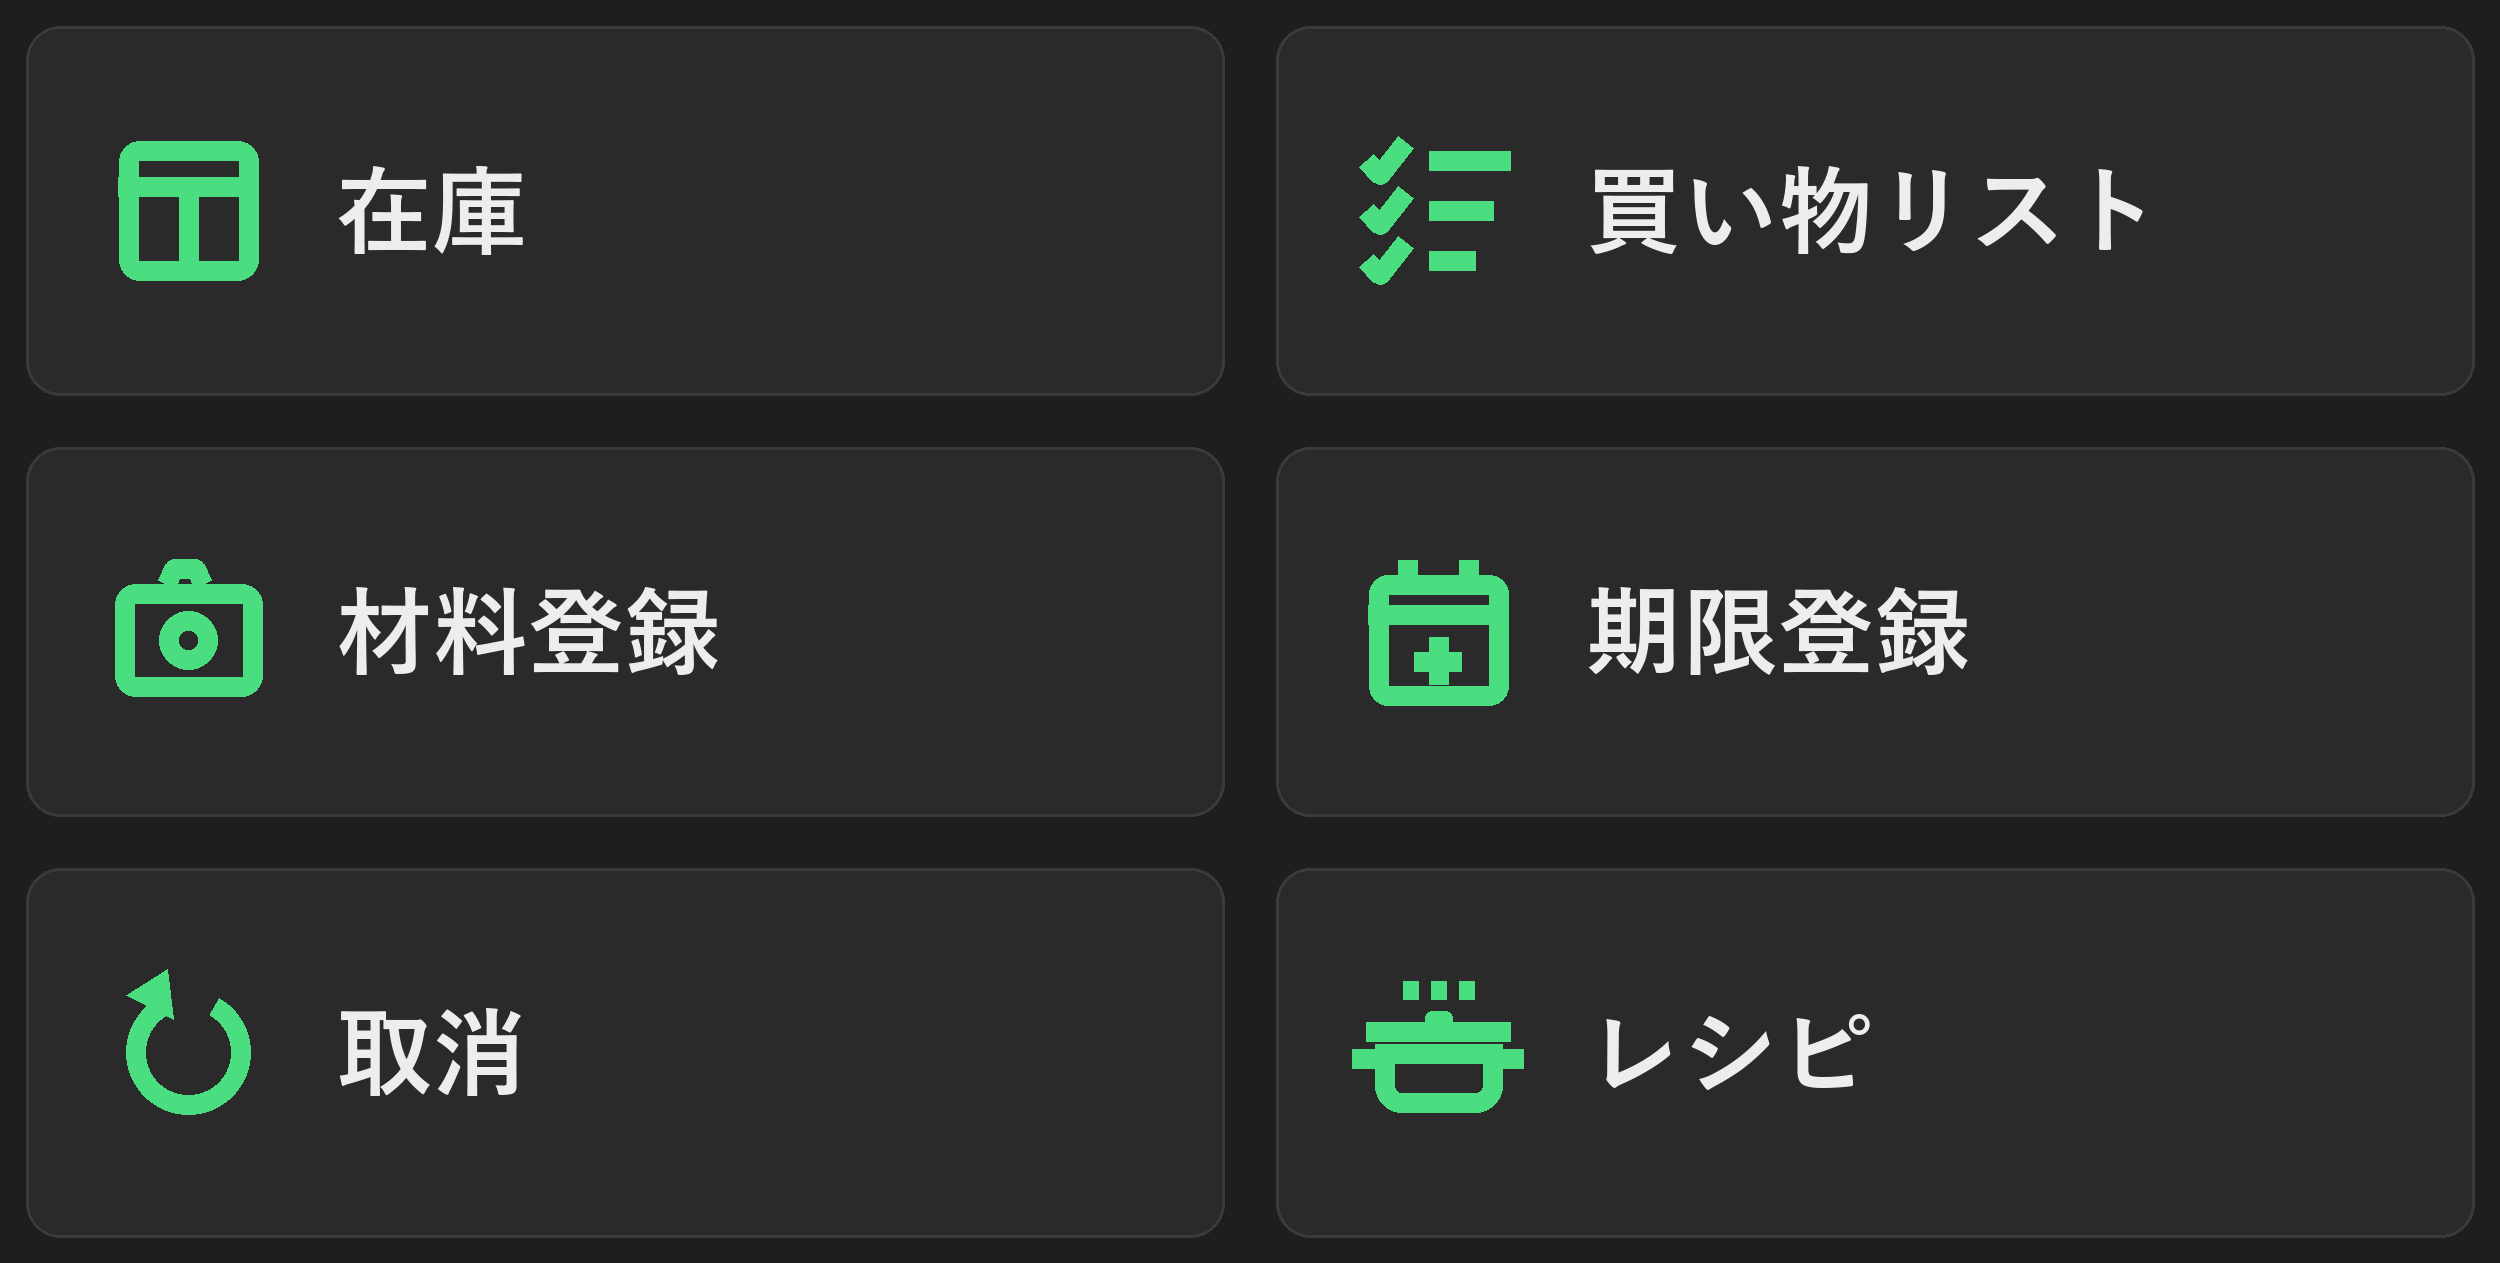
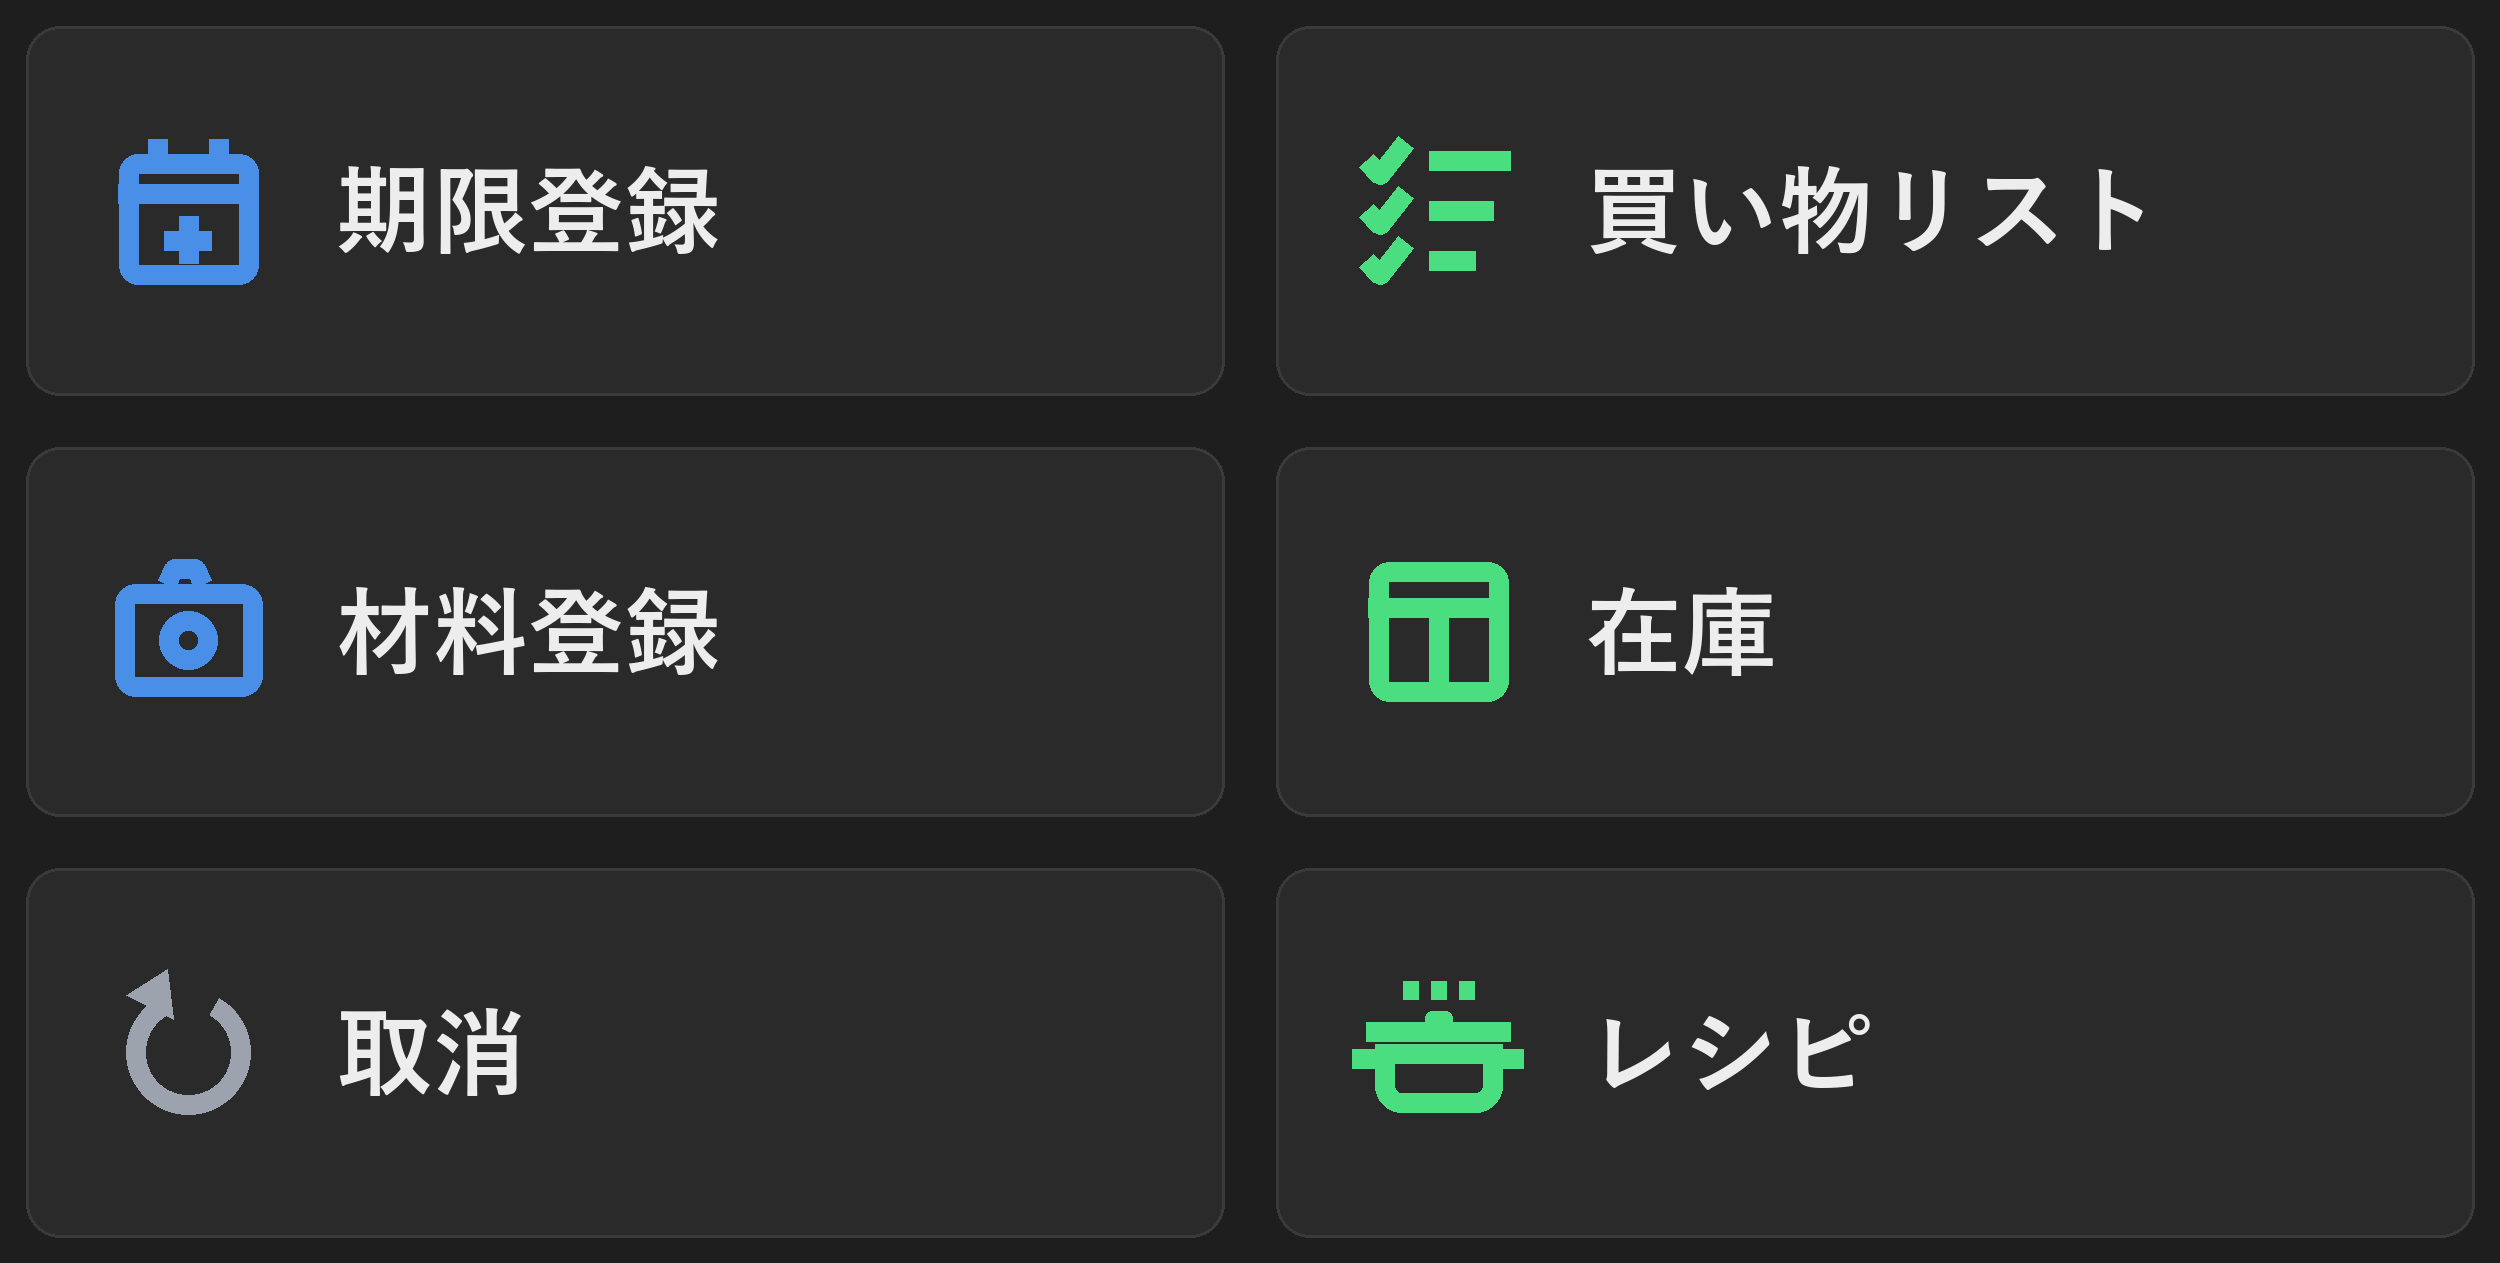
リッチメニュー：期限登録と在庫を入れ替え、期限登録・材料登録を薄めの青、取消をグレーにする

diff --git a/04-food-expiry/richmenu.py b/04-food-expiry/richmenu.py
@@ -2,7 +2,7 @@
 """リッチメニュー画像を生成する。
 
 2列×3行。1タイル＝角丸のカードで、左に線画アイコン、右に見出し。
-アイコンの色はすべて緑にそろえる（以前は左列が青、取消がグレーだった）。
+アイコンの色：登録する系（期限登録・材料登録）は薄めの青、取消はグレー、ほかは緑。
 
 配色は2通りある。使う人ごとにどちらを貼るかを選べるよう、2枚を別々に作る。
 
@@ -72,6 +72,9 @@ TEXT = pal['text']
 GREEN = pal['green']
 PALE_BLUE = pal['blue']      # 左列。買い物リストと材料確認をひとまとまりに見せる
 GRAY = pal['gray']
+# 登録する系（期限登録・材料登録）の薄めの青。黒地・白地のどちらでも同じ色を使う。
+# タイルとのコントラストは黒地 4.4:1、白地 3.0:1（線画の基準 3:1 を両方で満たす）
+REG_BLUE = (74, 143, 231)    # #4A8FE7
 
 MARGIN = 26                  # タイルどうしの隙間
 RADIUS = 34
@@ -194,11 +197,11 @@ def icon_undo(cx, cy, s, c, lw):
 # (col, row, 見出し, アイコン, 色, 文字色)
 
 CELLS = [
-    (0, 0, "在庫",         icon_box,           GREEN, TEXT),
-    (0, 1, "材料登録",     icon_camera,        GREEN, TEXT),
-    (0, 2, "取消",         icon_undo,          GREEN, TEXT),
+    (0, 0, "期限登録",     icon_calendar_plus, REG_BLUE, TEXT),
+    (0, 1, "材料登録",     icon_camera,        REG_BLUE, TEXT),
+    (0, 2, "取消",         icon_undo,          GRAY,  TEXT),
     (1, 0, "買い物リスト", icon_list,          GREEN, TEXT),
-    (1, 1, "期限登録",     icon_calendar_plus, GREEN, TEXT),
+    (1, 1, "在庫",         icon_box,           GREEN, TEXT),
     (1, 2, "レシピ",       icon_pot,           GREEN, TEXT),
 ]
 
